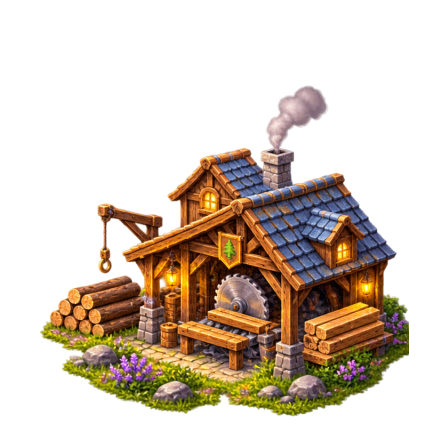
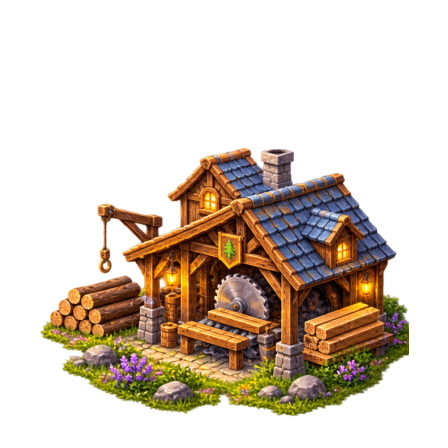
Fix the Sawmill's double smoke and audit every chimney
- Sawmill: the static painted plume is erased (2,235 px) and the smoke stub inside the
  chimney mouth retouched (18 px); every other pixel is unchanged (tested). The original
  animated smoke style is kept and now rises from the middle of the opening (276, 151)
  instead of the cap's front rim (278, 155). Canvas stays 448x448.
- Smoke audit of every building:
  - Blacksmith emitter moved from the cap's front stones (141, 77) into the dark opening
    (148, 73); its artwork is byte-identical.
  - Cottage, Farm, Tavern and Alchemist emitters verified in their openings; the Mage Tower
    has no chimney.
- New "smoke audit" test: every chimney is on, sits in a dark opening with sky above, and has
  no painted plume left.
- Docs: import commands, building art notes, status, audit screenshot and animation.

Gameplay, economy, building dimensions and the v1 save format are unchanged.

Claude-Session: https://claude.ai/code/session_01UkJPEtkhJ4uQKn7uUdBVTu

Changed region(s): [[0.5938, 0.1875, 0.75, 0.3438]]

diff --git a/tests/buildingArt.test.ts b/tests/buildingArt.test.ts
@@ -28,9 +28,10 @@ type Rect = { x0: number; y0: number; x1: number; y1: number };
  * is erased (output px), a pale smoke stub left inside the chimney mouth is retouched from the
  * pixels beside it, and the game animates smoke from the mouth instead.
  */
-const SMOKE_FIX: Record<'tavern' | 'farm' | 'alchemist', { erase: Rect[]; inpaint: Rect[]; chimney: { x: number; y: number } }> = {
+const SMOKE_FIX: Record<'tavern' | 'farm' | 'alchemist' | 'sawmill', { erase: Rect[]; inpaint: Rect[]; chimney: { x: number; y: number } }> = {
   tavern: { erase: [{ x0: 170, y0: 100, x1: 300, y1: 187 }], inpaint: [], chimney: { x: 222, y: 191 } },
   farm: { erase: [{ x0: 470, y0: 20, x1: 552, y1: 118 }], inpaint: [{ x0: 503, y0: 121, x1: 511, y1: 126 }], chimney: { x: 510, y: 122 } },
+  sawmill: { erase: [{ x0: 255, y0: 75, x1: 335, y1: 149 }], inpaint: [{ x0: 274, y0: 150, x1: 280, y1: 153 }], chimney: { x: 276, y: 151 } },
   alchemist: {
     // the plume, then the smoke that covered the cap's back rim trimmed to the rim's peaked outline
     erase: [
@@ -67,7 +68,9 @@ const CASES = [
     file: 'buildings/sawmill/sawmill_r0',
     opts: {
       effectsSource: { wheel: { x: 438, y: 505 } },
-      effects: { chimney: { x: 278, y: 155 }, windows: [{ x: 215, y: 203 }, { x: 339, y: 236 }, { x: 178, y: 281 }, { x: 365, y: 287 }] },
+      erase: SMOKE_FIX.sawmill.erase,
+      inpaint: SMOKE_FIX.sawmill.inpaint,
+      effects: { chimney: SMOKE_FIX.sawmill.chimney, windows: [{ x: 215, y: 203 }, { x: 339, y: 236 }, { x: 178, y: 281 }, { x: 365, y: 287 }] },
     },
   },
   {
@@ -95,8 +98,9 @@ const CASES = [
     raw: 'blacksmith.png',
     file: 'buildings/blacksmith/blacksmith_r0',
     opts: {
+      // smoke from the middle of the dark chimney opening (output px)
+      effects: { chimney: { x: 148, y: 73 } },
       effectsSource: {
-        chimney: { x: 858, y: 195 },
         windows: [
           { x: 777, y: 790 },
           { x: 745, y: 838 },
@@ -316,7 +320,7 @@ describe('painted farm, sawmill, mage tower, blacksmith, alchemist and tavern', 
     expect(Math.abs(low - k.bottom.y)).toBeLessThanOrEqual(2);
   });
 
-  for (const type of ['tavern', 'farm', 'alchemist'] as const) {
+  for (const type of ['tavern', 'farm', 'alchemist', 'sawmill'] as const) {
     const f = `buildings/${type}/${type}_r0`;
     const fix = SMOKE_FIX[type];
 
@@ -377,6 +381,40 @@ describe('painted farm, sawmill, mage tower, blacksmith, alchemist and tavern', 
     let low = 0;
     for (let y = 0; y < r.height; y++) for (let x = 0; x < r.width; x++) if (A(r)(x, y) > 128) low = y;
     expect(Math.abs(low - k.bottom.y)).toBeLessThanOrEqual(2);
+  });
+
+  it('smoke audit: every painted chimney smokes from its opening, with no painted plume left', () => {
+    const lum = (r: Raster, x: number, y: number) => {
+      const i = (y * r.width + x) * 4;
+      return 0.3 * r.data[i] + 0.59 * r.data[i + 1] + 0.11 * r.data[i + 2];
+    };
+    // light, grey-ish (low saturation), visibly opaque: what a painted smoke plume is made of
+    const smokeLike = (r: Raster, x: number, y: number) => {
+      const i = (y * r.width + x) * 4;
+      const [R, G, B, a] = [r.data[i], r.data[i + 1], r.data[i + 2], r.data[i + 3]];
+      const max = Math.max(R, G, B);
+      const min = Math.min(R, G, B);
+      const l = (max + min) / 510;
+      const sat = max === min ? 0 : l > 0.5 ? (max - min) / (510 - max - min) : (max - min) / (max + min);
+      return a >= 40 && l > 0.6 && sat < 0.25;
+    };
+    const withChimney: BuildingType[] = ['cottage', 'farm', 'sawmill', 'blacksmith', 'tavern', 'alchemist'];
+    for (const type of withChimney) {
+      const f = `buildings/${type}/${type}_r0`;
+      const r = master(f);
+      const c = entryOf(type).effects!.chimney;
+      expect(c, `${type}: smoke is on`).toBeTruthy();
+      // the emitter is in the dark chimney opening, with open sky above it
+      expect(A(r)(c!.x, c!.y), type).toBe(255);
+      expect(lum(r, c!.x, c!.y), `${type}: emitter in the dark opening`).toBeLessThan(110);
+      expect(A(r)(c!.x, c!.y - 8), `${type}: sky above the opening`).toBe(0);
+      // no painted plume above the chimney (a plume is thousands of px; a few light rim stones are fine)
+      let plume = 0;
+      for (let y = 0; y < c!.y - 3; y++) for (let x = Math.max(0, c!.x - 70); x < Math.min(r.width, c!.x + 90); x++) if (smokeLike(r, x, y)) plume++;
+      expect(plume, `${type}: painted smoke above the chimney`).toBeLessThan(20);
+    }
+    // the mage tower has no chimney, so no smoke
+    expect(entryOf('mageTower').effects!.chimney ?? null).toBeNull();
   });
 
   it('uses the painted r0 for every rotation until directional art exists (mirrored where needed)', () => {

diff --git a/src/game/effectPalette.ts b/src/game/effectPalette.ts
@@ -62,8 +62,9 @@ export const DEFAULT_SMOKE_STYLE: SmokeStyle = {
   duration: 2200,
 };
 
-// The tavern, farm and alchemist paintings came with static smoke painted in; it was removed from
-// the sprites (`--erase`/`--inpaint` on import) and these animated styles replace it.
+// The tavern, farm, alchemist and sawmill paintings came with static smoke painted in; it was
+// removed from the sprites (`--erase`/`--inpaint` on import). These three get their own animated
+// style; the sawmill keeps the default.
 export const SMOKE_STYLES: Partial<Record<BuildingType, SmokeStyle>> = {
   // Tavern: a soft, steady column, a little denser and taller than the rest: a working hearth.
   tavern: { tint: 0xddd5d2, interval: 380, alpha: 0.72, scaleFrom: 0.28, scaleTo: 1.05, rise: 34, riseJitter: 12, drift: 8, driftJitter: 8, duration: 2600 },

diff --git a/art-source/README.md b/art-source/README.md
@@ -10,7 +10,7 @@ folder is bundled into the game. The game only loads the processed files in `src
 | `raw/trees/tree_{pine,spruce,fir,oak,enchanted,mystic}.png` (320 × 512/576/480/448/480/512) | `src/assets/art/props/tree_*.{png,webp}` | From `levelup_trees_pack.zip`. Delivered at the exact spec canvas with the trunk on the anchor, so they're kept pixel for pixel. Import cleans the generator alpha (haze, 1–5% of the body semi-transparent) and removes slivers of neighbouring trees left by sprite-sheet slicing (fir, oak, enchanted, mystic). |
 
 | `raw/buildings/farm.png` (854×788) | `src/assets/art/buildings/farm/farm_r0.{png,webp}` | From `levelup_buildings_pack.zip`. Farmhouse, wheat field, vegetable rows, fence and coop on one grass base, fitted to the **2×3** footprint (the logical footprint is authoritative; nothing was resized in gameplay). Canvas grown to 704×544 for the (since removed) painted smoke. The static painted plume is erased after alignment (`--erase 470,20,552,118`) and the pale smoke stub left inside the chimney mouth is retouched from the dark mouth beside it (`--inpaint 503,121,511,126`, 40 px); every other pixel is unchanged. Animated smoke rises from the mouth (510, 122). |
-| `raw/buildings/sawmill.png` (789×779) | `src/assets/art/buildings/sawmill/sawmill_r0.{png,webp}` | Fitted to the **2×1** footprint. A sliver of the neighbouring image on the left was removed. The sawdust effect is anchored where the blade meets the timber. |
+| `raw/buildings/sawmill.png` (789×779) | `src/assets/art/buildings/sawmill/sawmill_r0.{png,webp}` | Fitted to the **2×1** footprint. A sliver of the neighbouring image on the left was removed. The sawdust effect is anchored where the blade meets the timber. The static painted smoke plume is erased after alignment (`--erase 255,75,335,149`) and the smoke stub inside the chimney mouth retouched (`--inpaint 274,150,280,153`, 18 px); every other pixel is unchanged. The original animated smoke rises from the middle of the opening (276, 151). |
 | `raw/buildings/mage_tower.png` (707×788) | `src/assets/art/buildings/mageTower/mageTower_r0.{png,webp}` | Fitted to the **2×2** footprint. Imported with `--keep-islands` so the halo's sparkles survive. The crystal is detected as the orb; window glows are set by hand (auto-detection also picked the gold emblem on the banner). |
 | `raw/buildings/tavern.png` (1254×1254) | `src/assets/art/buildings/tavern/tavern_r0.{png,webp}` | Tavern, fitted to the **2×2** footprint (scale 0.413). The door and patio face **front-right**, but it is deliberately **not mirrored** (`--no-mirror`): the painting is lit from the top-left like the rest of the village, and mirroring would flip that light. r1/r3 (mirrored r0) show the door front-left. Its base is painted slightly flatter than 2:1, so the side corners sit about 9 world px below the footprint diamond's (not corrected, to avoid distorting the art). The generator painted a **static** smoke plume above the chimney: it is erased from the sprite after alignment (`--erase 170,100,300,187`, output px; every building pixel is unchanged) and the game animates the Tavern's own smoke style from the chimney mouth (`--effect chimney=222,191`). Six warm glows: both dormers, the big latticed window, the hanging lantern by the sign and the two table lanterns (the beer-mug sign and banner are excluded). |
 | `raw/buildings/alchemist.png` (1312×1199) | `src/assets/art/buildings/alchemist/alchemist_r0.{png,webp}` | Alchemist's Workshop, fitted to the **2×2** footprint (scale 0.381, no mirroring: the open shop porch already faces front-left). Generator alpha (body at 250–253, background haze) cleaned on import. The painted (static) smoke plume is erased after alignment; the smoke that covered the cap's back rim is trimmed to the rim's peaked outline (four 1-row `--erase` steps) and the smoke stub inside the mouth is retouched (`--inpaint 328,223,337,227`, 36 px). Every other pixel is unchanged. Delicate animated smoke rises from the mouth (332, 225). Warm glows on the dormer, arched window, kiln mouth and porch lantern (the green banner emblem and the green still are excluded); **emerald sparkles** on the still and three potion flasks. |
@@ -45,12 +45,13 @@ npm run art:import -- art-source/raw/buildings/farm.png --as farm_r0 \
   --effect window=485,296 --effect window=356,390 \
   --effect butterfly=203,367 --effect butterfly=300,330 --effect butterfly=585,330 --effect butterfly=413,460
 npm run art:import -- art-source/raw/buildings/sawmill.png --as sawmill_r0 --effect-src wheel=438,505 \
-  --effect chimney=278,155 --effect window=215,203 --effect window=339,236 --effect window=178,281 --effect window=365,287
+  --erase 255,75,335,149 --inpaint 274,150,280,153 \
+  --effect chimney=276,151 --effect window=215,203 --effect window=339,236 --effect window=178,281 --effect window=365,287
 npm run art:import -- art-source/raw/buildings/mage_tower.png --as mageTower_r0 --keep-islands \
   --effect window=332,632 --effect window=255,642 --effect window=170,731 \
   --effect window=184,854 --effect window=302,880 \
   --effect sparkle=129,842 --effect sparkle=447,876 --effect sparkle=414,755 --effect sparkle=244,870 --effect sparkle=368,880
-npm run art:import -- art-source/raw/buildings/blacksmith.png --as blacksmith_r0 --effect-src chimney=858,195 \
+npm run art:import -- art-source/raw/buildings/blacksmith.png --as blacksmith_r0 --effect chimney=148,73 \
   --effect-src window=777,790 --effect-src window=745,838 --effect-src window=828,649 \
   --effect-src window=487,755 --effect-src window=369,547
 npm run art:import -- art-source/raw/buildings/alchemist.png --as alchemist_r0 \

diff --git a/docs/BUILDING_ART.md b/docs/BUILDING_ART.md
@@ -52,9 +52,6 @@ procedural building geometry is gone.
 - **Clipped edges in the source crop.** The farm's right-hand bush and the bush beside the
   sawmill's timber pile end in a straight vertical cut (37 and 29 source px, about 9 and 7 world
   px). It's small, but visible up close.
-- **Smoke:** the sawmill's smoke plume is still painted, with animated puffs rising over it
-  (double smoke; it can be fixed like the farm). The farm's painted plume was removed (see
-  "Painted smoke removed" below).
 - **Blacksmith orientation.** It was painted with its long forge front facing front-right (the
   1×2 view), so it is mirrored to fit the 2×1 footprint. The light then comes slightly from the
   right instead of the left. Its plot is nearly square (1 : 1.2), so like the sawmill the grass
@@ -67,11 +64,11 @@ procedural building geometry is gone.
   building, and mirroring would flip it. Gameplay doesn't depend on which face the door is on;
   turning the Tavern (r1/r3) shows the door front-left. Its base is painted slightly flatter than
   2:1, so the grass at the side corners sits about 9 world px below the footprint's side corners.
-- **Painted smoke removed (Tavern, Farm, Alchemist).** These paintings came with a smoke plume
+- **Painted smoke removed (Tavern, Farm, Alchemist, Sawmill).** These paintings came with a smoke plume
   baked in. A painted plume can't move, so in game it read as frozen smoke (or, on the farm, as
-  a second plume under the animated one). The importer erases the plume after alignment
+  a second plume under the animated one, on the farm and sawmill). The importer erases the plume after alignment
   (`--erase`, output px) and retouches the pale smoke stub left inside the chimney mouth from
-  the dark mouth beside it (`--inpaint`, 36–40 px). On the alchemist, the smoke that hid the
+  the dark mouth beside it (`--inpaint`, 18–40 px). On the alchemist, the smoke that hid the
   cap's back rim is trimmed to the rim's peaked outline. Every other pixel is exactly as before
   (tested). Each building then emits its own smoke style from the chimney mouth
   (`SMOKE_STYLES` in `src/game/effectPalette.ts`): a slightly denser column for the Tavern,
@@ -80,6 +77,13 @@ procedural building geometry is gone.
   roofs.
 
   ![Farm, Alchemist and Tavern chimney smoke](screenshots/smoke-fix.gif)
+- **Smoke audit.** Every chimney (cottage, farm, sawmill, blacksmith, tavern, alchemist) emits
+  animated smoke from the middle of its dark opening with open sky above, and none has a
+  painted plume left (`tests/buildingArt.test.ts`, "smoke audit"). The mage tower has no
+  chimney. The sawmill's emitter moved 4 px up into the opening and the blacksmith's 7 px right
+  and 4 px up (it was on the cap's front stones).
+
+  ![Every chimney in game](screenshots/smoke-audit.gif)
 - **Similar houses.** The farmhouse and the cottage share a red-roof, stone-and-timber style,
   so they're easy to mix up at a glance. The farm's field and fence tell them apart.
 

diff --git a/docs/PROJECT_STATUS.md b/docs/PROJECT_STATUS.md
@@ -1,6 +1,6 @@
 # Project status
 
-_Last updated: 2026-11-01, smoke fix (Tavern, Farm, Alchemist)._
+_Last updated: 2026-11-01, smoke fix and audit (all buildings)._
 
 ## Shipped to `main` (merged)
 
@@ -22,7 +22,7 @@ before claiming what is live.
 
 | Branch | What |
 | --- | --- |
-| `claude/level-up-rpg-review-sk02af` (PR #13) | **Smoke fix** for the Tavern, Farm and Alchemist: the static painted plumes are erased (mouth stubs retouched; all other pixels unchanged) and animated smoke rises from each chimney mouth, with per-building smoke styles (`SMOKE_STYLES`) |
+| `claude/level-up-rpg-review-sk02af` (PR #13) | **Smoke fix** for the Tavern, Farm, Alchemist and Sawmill: the static painted plumes are erased (mouth stubs retouched; all other pixels unchanged) and animated smoke rises from each chimney opening, with per-building smoke styles (`SMOKE_STYLES`); blacksmith emitter moved into its opening; smoke audit test for every building |
 
 PR #12 (painted Tavern and Alchemist's Workshop, per-building sparkle colours) is merged.
 
@@ -51,7 +51,7 @@ paintings. They stay hidden until their `_r0` arrives.
   on load.
 - **Environment:** painted trees, procedural grass and props, fireflies, spores, glows,
   butterflies, crystal sparkles and drifting cloud shadows.
-- **Quality:** 209 tests. The validator has no errors; its
+- **Quality:** 212 tests. The validator has no errors; its
   warnings are four trees with straight sprite-sheet cut edges and the missing optional grass
   tiles. Performance on the Pixel 7 profile is about 24–26 draw calls per frame for the usual
   starter village; a six-building village (mage tower, alchemist, blacksmith, cottage, farm,
@@ -68,8 +68,6 @@ paintings. They stay hidden until their `_r0` arrives.
 - Oak, enchanted, fir and spruce trees have truncated right edges from sprite-sheet slicing.
 - Grass, ground details, rocks, ruins, the cliff, paths, villagers and decorations are still
   procedural or missing. They need painted art (see `docs/ART_BRIEFS.md`).
-- The **sawmill** still has a painted smoke plume with the animated puffs on top (double smoke).
-  It can be fixed the same way as the farm (`--erase` + `--inpaint`).
 - The Tavern's door faces front-right at r0 (kept as painted for the top-left light), and its
   base is a little flatter than 2:1.
 - The `src/modules/` gameplay modules (quests, AI coaching, rewards) are scaffolding only

diff --git a/docs/NEXT_SESSION.md b/docs/NEXT_SESSION.md
@@ -49,7 +49,7 @@ them.
 
 ## 3. Open questions for the owner
 
-- Merge the smoke fix PR #13 (Tavern, Farm and Alchemist)? The **sawmill** still has a painted plume under its animated puffs (double smoke); fix it the same way if wanted.
+- Merge the smoke fix PR #13 (Tavern, Farm, Alchemist and Sawmill, plus the smoke audit)? New building art must pass the smoke audit test in `tests/buildingArt.test.ts` (add the building to its list).
 - **Owner's priorities (2026-11-01):** finish beautiful, consistent **front-facing (r0)** art for
   all ten first-island buildings first. The Tavern and Alchemist are done; next are the
   **Marketplace**, **Ancient Temple** and **Castle Keep**. r1–r3 rotations come later.
